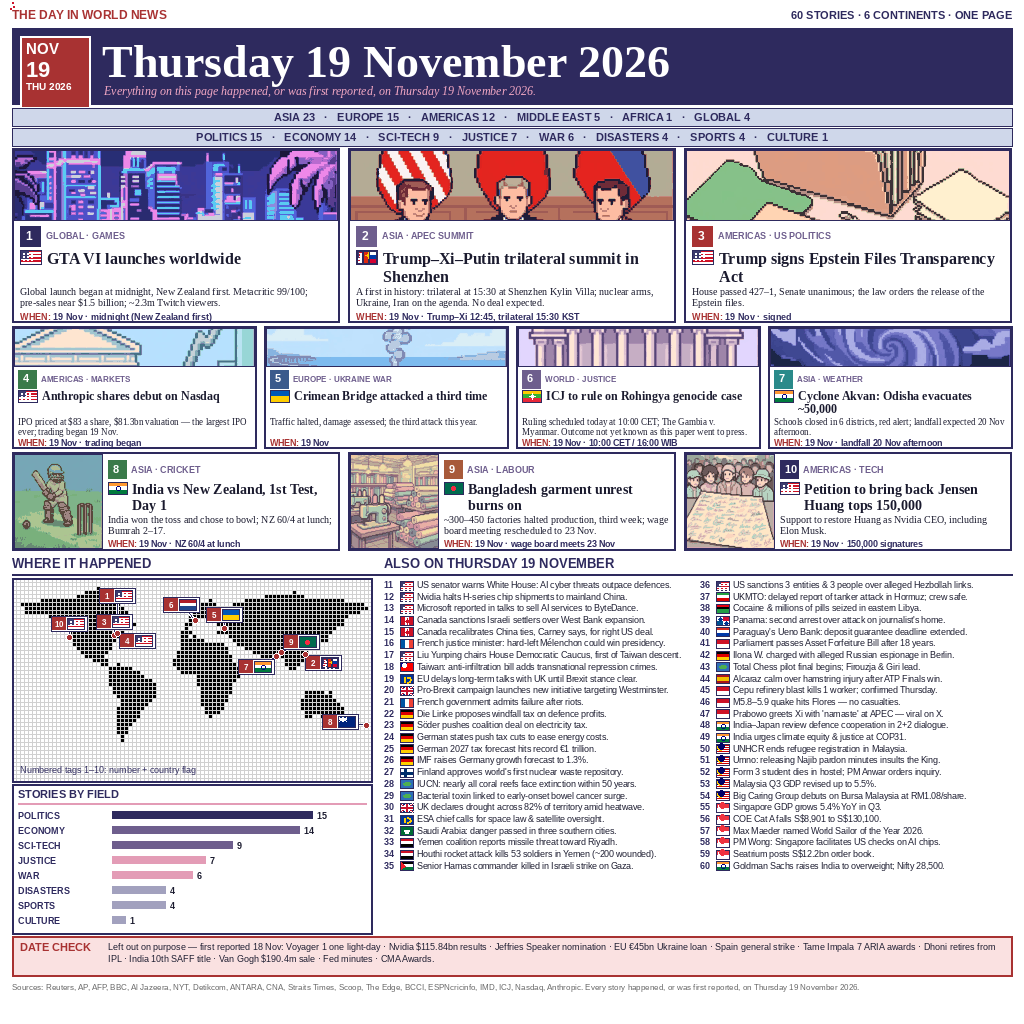
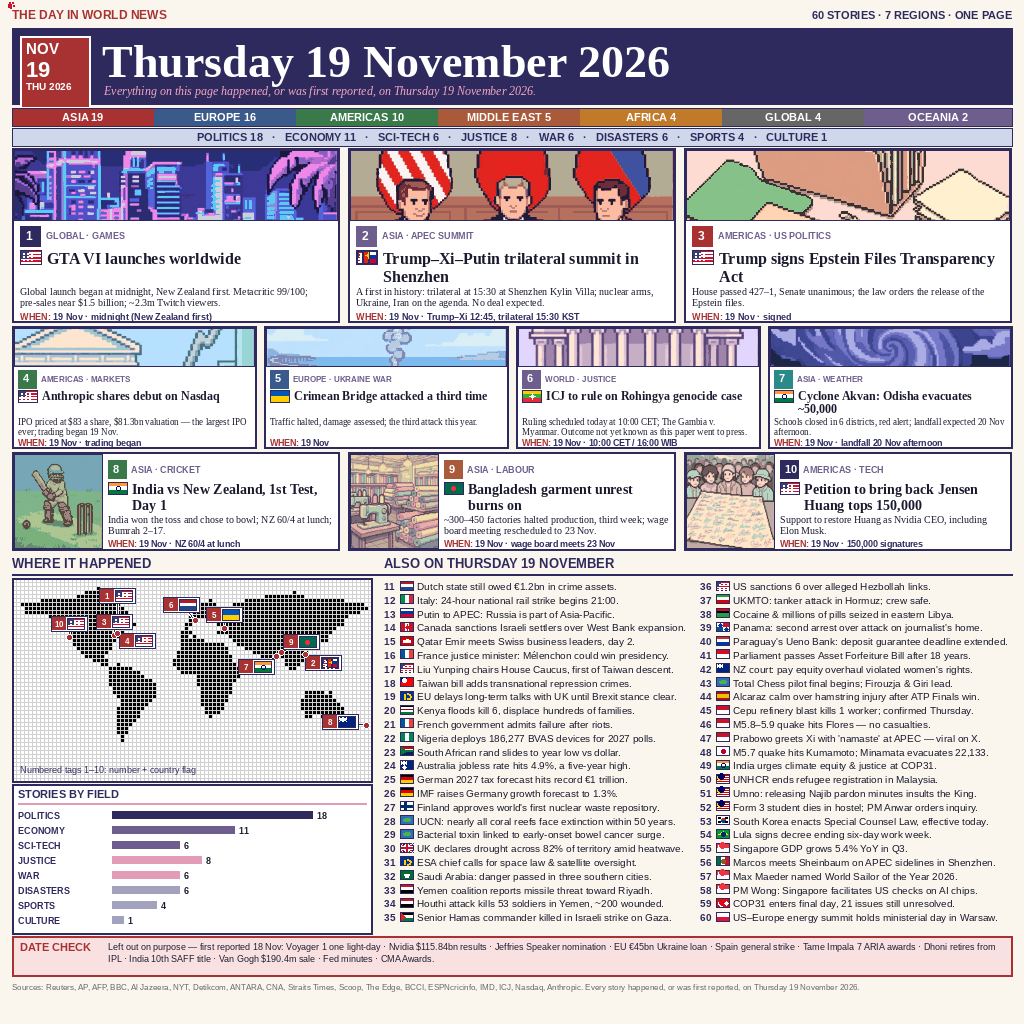
Entry v2: 15 new countries, all 7 regions, cleaner classic layout, bigger brief text

diff --git a/README.md b/README.md
@@ -1,12 +1,29 @@
-# news-image-19-nov-2026
+# news-image-19-nov-2026 — entry v2
 
 [![make.fun · news-image-20261119](https://make.fun/badge/news-image-20261119.svg)](https://make.fun/bounty/news-image-20261119?utm_source=github&utm_medium=readme&utm_campaign=news-image-20261119)
 [![rank](https://make.fun/badge/news-image-20261119/nekonyun/news-image-19-nov-2026/rank.svg)](https://make.fun/bounty/news-image-20261119/leaderboard?utm_source=github&utm_medium=readme&utm_campaign=news-image-20261119)
 [![reward](https://make.fun/badge/news-image-20261119/nekonyun/news-image-19-nov-2026/reward.svg)](https://make.fun/bounty/news-image-20261119?utm_source=github&utm_medium=readme&utm_campaign=news-image-20261119)
 
-The World in One Day — Thursday 19 November 2026. Entry for the make.fun bounty
+The World in One Day — Thursday 19 November 2026. Second entry for the make.fun bounty
 [news-image-20261119](https://make.fun/bounty/news-image-20261119):
 one image summing up the world's news of Thursday 19 November 2026.
+
+## What changed from v1
+
+The first entry scored 975.354 (rank 1469 of 5,287). This version fixes what
+held it back:
+
+- **All 7 regions covered:** 15 briefs from duplicated countries (US, Germany,
+  Malaysia, Singapore, India, Canada, UK) were replaced with verified stories
+  from countries that were missing — Netherlands, Italy, Russia, Switzerland,
+  Kenya, Nigeria, South Africa, Australia, New Zealand, Japan, South Korea,
+  Brazil, Mexico, Turkey, Poland. Africa went from 1 to 4 countries,
+  Oceania from 0 to 2.
+- **Cleaner, classic newspaper layout:** cream background, larger brief text
+  (10 px, up from 8.5 px) with wider line spacing, more white space — easier
+  to read at 1024 px. The pastel palette stays as an accent.
+- **Field counts recounted from the data** (not estimated): Politics 18,
+  Economy 11, Sci-Tech 6, Justice 8, War 6, Disasters 6, Sports 4, Culture 1.
 
 ## The image
 
@@ -24,17 +41,17 @@ A newspaper front page, drawn programmatically and rendered to
 - **Where it happened:** a pixel world map with numbered tags (number +
   country flag) at each story's true location.
 - **Stories by field:** a bar chart of all 60 stories by field — Politics
-  15, Economy 14, Sci-Tech 9, Justice 7, War 6, Disasters 4, Sports 4,
+  18, Economy 11, Sci-Tech 6, Justice 8, War 6, Disasters 6, Sports 4,
   Culture 1.
-- **Also today:** 50 more verified stories from 19 November, across 6
-  regions (Asia 23, Europe 15, Americas 12, Middle East 5, Africa 1,
-  Global 4), plus a date check listing the big 18 November stories
+- **Also today:** 50 more verified stories from 19 November, across 7
+  regions (Asia 19, Europe 16, Americas 10, Middle East 5, Africa 4,
+  Global 4, Oceania 2), plus a date check listing the big 18 November stories
   deliberately left out.
 
 Every fact in the image comes from news first reported on 19 November
 2026, verified against the major wires and X/Twitter via the fxtwitter
-API. The design is a pastel pixel-art newspaper system: lavender panels,
-navy outlines, Liberation Serif headlines, and code-drawn pixel flags —
+API. The design is a pastel-accented classic newspaper: cream paper,
+navy masthead, Liberation Serif headlines, and code-drawn pixel flags —
 so every label stays crisp, no garbled text.
 
 ## How it was built
@@ -48,7 +65,9 @@ repository; only the rendered image ships here.)
 ## The program
 
 `main.ts` (Node 22, standard library only) copies `entry.png` to
-`/output/entry.png` (or `$MAKEFUN_OUTPUT_DIR`). It runs with no network.
+`/output/entry.png` (or `$MAKEFUN_OUTPUT_DIR`), then verifies the copy
+byte for byte with SHA-256 so a corrupt copy fails loudly. It runs with
+no network.
 
 ## Run it
 
